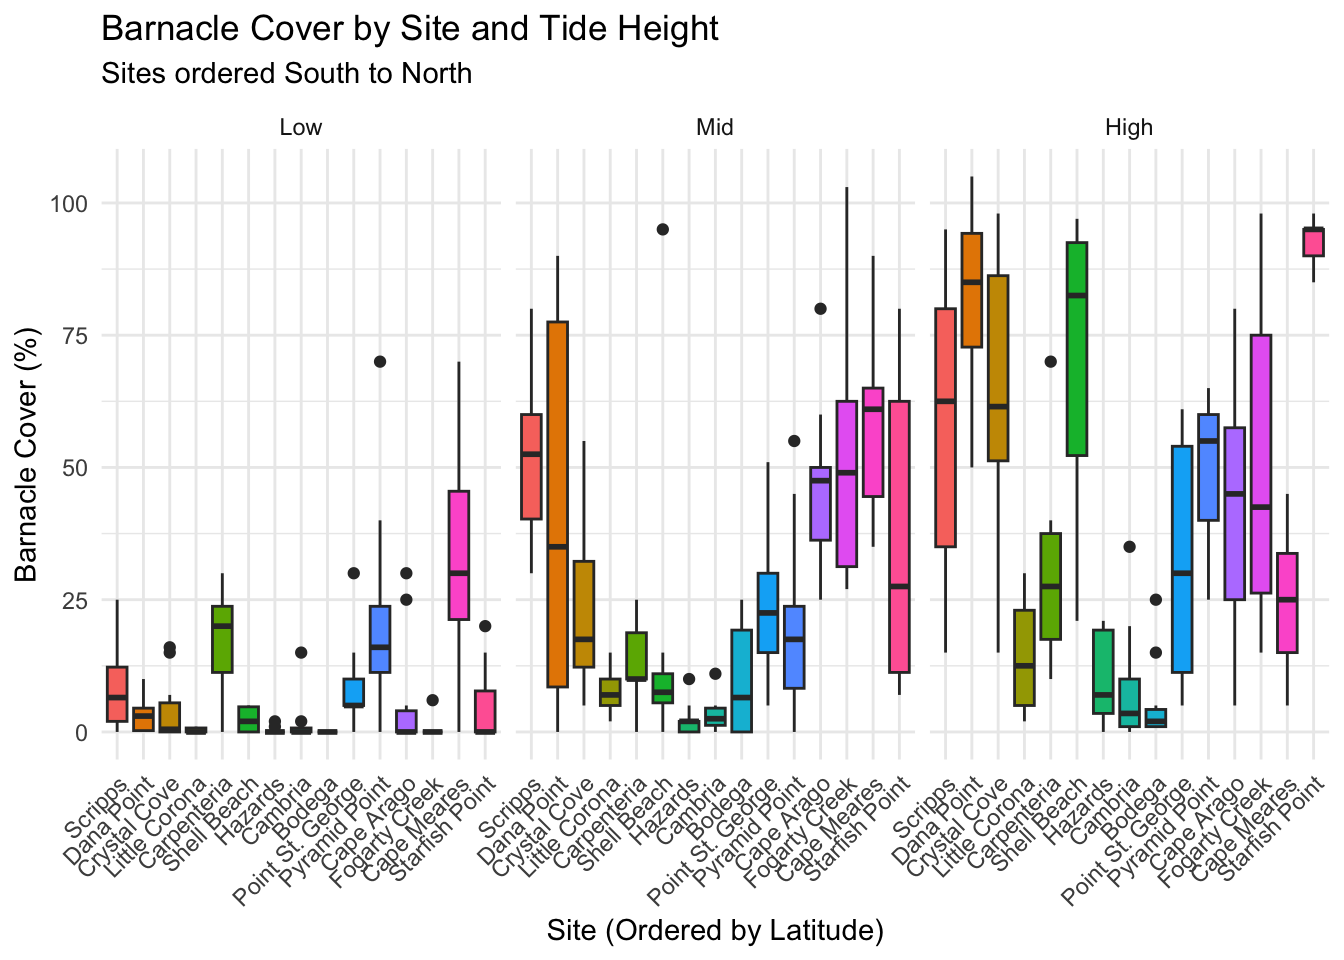
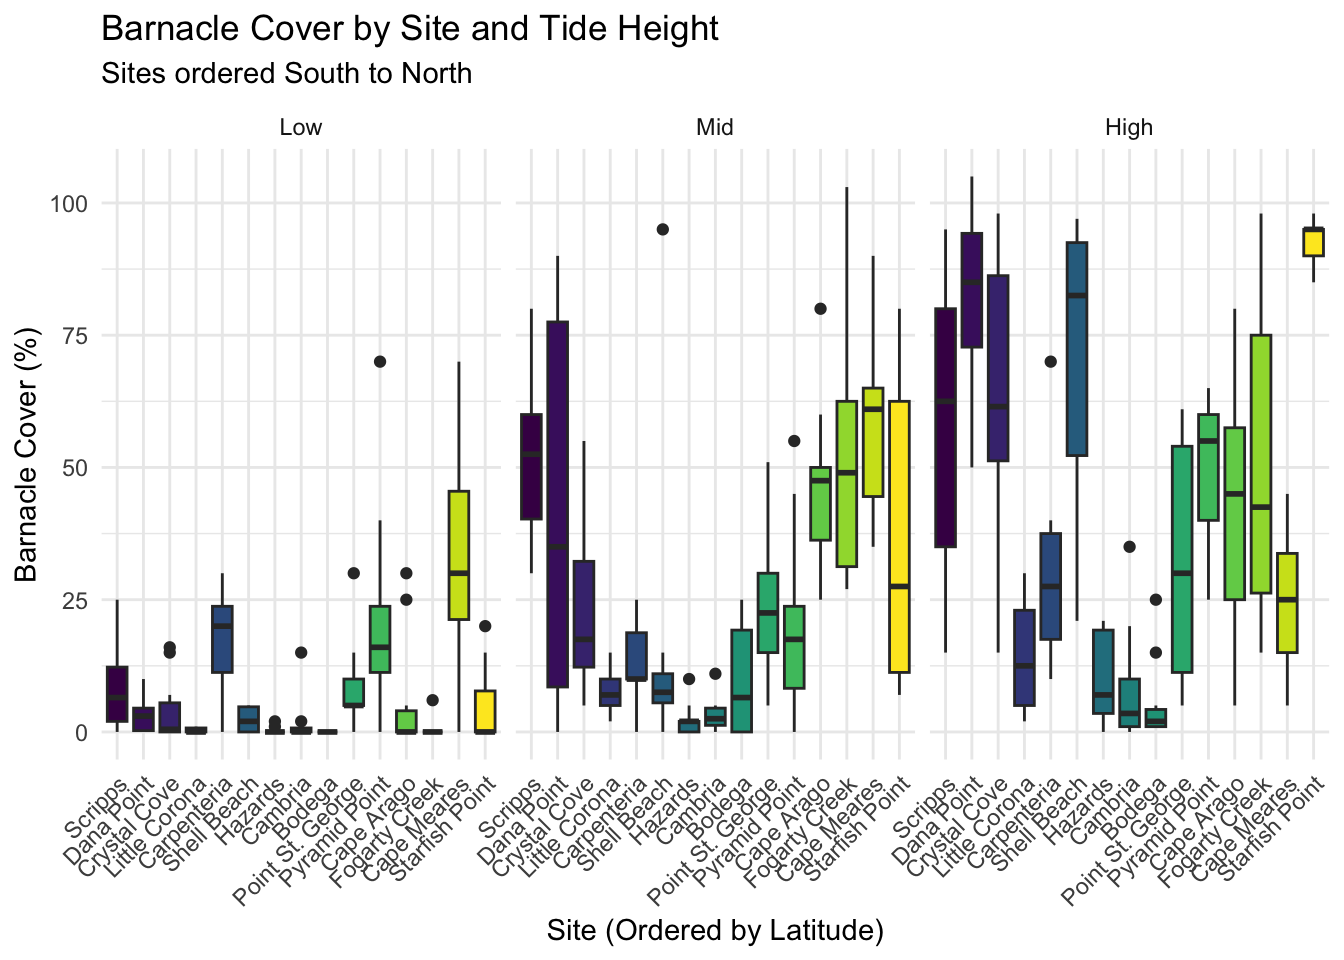
udpate week 9

diff --git a/Week_09/Scripts/Week9HW.html b/Week_09/Scripts/Week9HW.html
@@ -107,11 +107,12 @@ pre > code.sourceCode > span > a:first-child::before { text-decoration: underlin
 
 <section id="setup" class="level2">
 <h2 class="anchored" data-anchor-id="setup">Setup</h2>
-<p>Let’s setup. Loading the usual suspects. - <code>tidyverse</code>: Because we’re not monsters writing base R. - <code>janitor</code>: To fix whatever column names we were given. - <code>here</code>: So R doesn’t yell at me about file paths.</p>
+<p>Let’s setup. Loading the usual suspects. - <code>tidyverse</code>: Because we’re not monsters writing base R. - <code>janitor</code>: To fix whatever column names we were given. - <code>here</code>: So R doesn’t yell at me about file paths. - <code>viridis</code>: For better colors.</p>
 <div class="cell">
 <div class="sourceCode cell-code" id="cb1"><pre class="sourceCode r code-with-copy"><code class="sourceCode r"><span id="cb1-1"><a href="#cb1-1" aria-hidden="true" tabindex="-1"></a><span class="fu">library</span>(tidyverse)</span>
 <span id="cb1-2"><a href="#cb1-2" aria-hidden="true" tabindex="-1"></a><span class="fu">library</span>(janitor)</span>
-<span id="cb1-3"><a href="#cb1-3" aria-hidden="true" tabindex="-1"></a><span class="fu">library</span>(here)</span></code><button title="Copy to Clipboard" class="code-copy-button"><i class="bi"></i></button></pre></div>
+<span id="cb1-3"><a href="#cb1-3" aria-hidden="true" tabindex="-1"></a><span class="fu">library</span>(here)</span>
+<span id="cb1-4"><a href="#cb1-4" aria-hidden="true" tabindex="-1"></a><span class="fu">library</span>(viridis) <span class="co"># For the better color palette</span></span></code><button title="Copy to Clipboard" class="code-copy-button"><i class="bi"></i></button></pre></div>
 </div>
 </section>
 <section id="load-data" class="level2">
@@ -195,19 +196,20 @@ dbl (1): Latitude
 <div class="cell">
 <div class="sourceCode cell-code" id="cb7"><pre class="sourceCode r code-with-copy"><code class="sourceCode r"><span id="cb7-1"><a href="#cb7-1" aria-hidden="true" tabindex="-1"></a><span class="co"># Make the plot.</span></span>
 <span id="cb7-2"><a href="#cb7-2" aria-hidden="true" tabindex="-1"></a>intertidal_plot <span class="ot">&lt;-</span> <span class="fu">ggplot</span>(cleaned_data, <span class="fu">aes</span>(<span class="at">x =</span> site, <span class="at">y =</span> barnacle_cover_percent)) <span class="sc">+</span></span>
-<span id="cb7-3"><a href="#cb7-3" aria-hidden="true" tabindex="-1"></a>  <span class="fu">geom_boxplot</span>(<span class="fu">aes</span>(<span class="at">fill =</span> site), <span class="at">show.legend =</span> <span class="cn">FALSE</span>) <span class="sc">+</span></span>
+<span id="cb7-3"><a href="#cb7-3" aria-hidden="true" tabindex="-1"></a>  <span class="fu">geom_boxplot</span>(<span class="fu">aes</span>(<span class="at">fill =</span> site), <span class="at">show.legend =</span> <span class="cn">FALSE</span>) <span class="sc">+</span> <span class="co"># THIS is where show.legend goes</span></span>
 <span id="cb7-4"><a href="#cb7-4" aria-hidden="true" tabindex="-1"></a>  <span class="fu">facet_wrap</span>(<span class="sc">~</span> tide_height) <span class="sc">+</span> <span class="co"># Split by tide height</span></span>
-<span id="cb7-5"><a href="#cb7-5" aria-hidden="true" tabindex="-1"></a>  <span class="fu">labs</span>(</span>
-<span id="cb7-6"><a href="#cb7-6" aria-hidden="true" tabindex="-1"></a>    <span class="at">title =</span> <span class="st">"Barnacle Cover by Site and Tide Height"</span>,</span>
-<span id="cb7-7"><a href="#cb7-7" aria-hidden="true" tabindex="-1"></a>    <span class="at">subtitle =</span> <span class="st">"Sites ordered South to North"</span>,</span>
-<span id="cb7-8"><a href="#cb7-8" aria-hidden="true" tabindex="-1"></a>    <span class="at">x =</span> <span class="st">"Site (Ordered by Latitude)"</span>,</span>
-<span id="cb7-9"><a href="#cb7-9" aria-hidden="true" tabindex="-1"></a>    <span class="at">y =</span> <span class="st">"Barnacle Cover (%)"</span></span>
-<span id="cb7-10"><a href="#cb7-10" aria-hidden="true" tabindex="-1"></a>  ) <span class="sc">+</span></span>
-<span id="cb7-11"><a href="#cb7-11" aria-hidden="true" tabindex="-1"></a>  <span class="fu">theme_minimal</span>() <span class="sc">+</span></span>
-<span id="cb7-12"><a href="#cb7-12" aria-hidden="true" tabindex="-1"></a>  <span class="fu">theme</span>(<span class="at">axis.text.x =</span> <span class="fu">element_text</span>(<span class="at">angle =</span> <span class="dv">45</span>, <span class="at">hjust =</span> <span class="dv">1</span>)) <span class="co"># Angle x-axis text so it's not a total mess</span></span>
-<span id="cb7-13"><a href="#cb7-13" aria-hidden="true" tabindex="-1"></a></span>
-<span id="cb7-14"><a href="#cb7-14" aria-hidden="true" tabindex="-1"></a><span class="co"># Show me the plot.</span></span>
-<span id="cb7-15"><a href="#cb7-15" aria-hidden="true" tabindex="-1"></a>intertidal_plot</span></code><button title="Copy to Clipboard" class="code-copy-button"><i class="bi"></i></button></pre></div>
+<span id="cb7-5"><a href="#cb7-5" aria-hidden="true" tabindex="-1"></a>  <span class="fu">scale_fill_viridis_d</span>() <span class="sc">+</span> <span class="co"># No argument needed here</span></span>
+<span id="cb7-6"><a href="#cb7-6" aria-hidden="true" tabindex="-1"></a>  <span class="fu">labs</span>(</span>
+<span id="cb7-7"><a href="#cb7-7" aria-hidden="true" tabindex="-1"></a>    <span class="at">title =</span> <span class="st">"Barnacle Cover by Site and Tide Height"</span>,</span>
+<span id="cb7-8"><a href="#cb7-8" aria-hidden="true" tabindex="-1"></a>    <span class="at">subtitle =</span> <span class="st">"Sites ordered South to North"</span>,</span>
+<span id="cb7-9"><a href="#cb7-9" aria-hidden="true" tabindex="-1"></a>    <span class="at">x =</span> <span class="st">"Site (Ordered by Latitude)"</span>,</span>
+<span id="cb7-10"><a href="#cb7-10" aria-hidden="true" tabindex="-1"></a>    <span class="at">y =</span> <span class="st">"Barnacle Cover (%)"</span></span>
+<span id="cb7-11"><a href="#cb7-11" aria-hidden="true" tabindex="-1"></a>  ) <span class="sc">+</span></span>
+<span id="cb7-12"><a href="#cb7-12" aria-hidden="true" tabindex="-1"></a>  <span class="fu">theme_minimal</span>() <span class="sc">+</span></span>
+<span id="cb7-13"><a href="#cb7-13" aria-hidden="true" tabindex="-1"></a>  <span class="fu">theme</span>(<span class="at">axis.text.x =</span> <span class="fu">element_text</span>(<span class="at">angle =</span> <span class="dv">45</span>, <span class="at">hjust =</span> <span class="dv">1</span>)) <span class="co"># Angle x-axis text so it's not a total mess</span></span>
+<span id="cb7-14"><a href="#cb7-14" aria-hidden="true" tabindex="-1"></a></span>
+<span id="cb7-15"><a href="#cb7-15" aria-hidden="true" tabindex="-1"></a><span class="co"># Show me the plot.</span></span>
+<span id="cb7-16"><a href="#cb7-16" aria-hidden="true" tabindex="-1"></a>intertidal_plot</span></code><button title="Copy to Clipboard" class="code-copy-button"><i class="bi"></i></button></pre></div>
 <div class="cell-output-display">
 <div>
 <figure class="figure">
@@ -227,8 +229,7 @@ dbl (1): Latitude
 <span id="cb8-4"><a href="#cb8-4" aria-hidden="true" tabindex="-1"></a>  <span class="at">plot =</span> intertidal_plot,</span>
 <span id="cb8-5"><a href="#cb8-5" aria-hidden="true" tabindex="-1"></a>  <span class="at">width =</span> <span class="dv">8</span>,</span>
 <span id="cb8-6"><a href="#cb8-6" aria-hidden="true" tabindex="-1"></a>  <span class="at">height =</span> <span class="dv">6</span>,</span>
-<span id="cb8-7"><a href="#cb8-7" aria-hidden="true" tabindex="-1"></a>  <span class="at">dpi =</span> <span class="dv">300</span></span>
-<span id="cb8-8"><a href="#cb8-8" aria-hidden="true" tabindex="-1"></a>)</span></code><button title="Copy to Clipboard" class="code-copy-button"><i class="bi"></i></button></pre></div>
+<span id="cb8-7"><a href="#cb8-7" aria-hidden="true" tabindex="-1"></a>  <span class="at">dpi =</span> <span class="dv">300</span>)</span></code><button title="Copy to Clipboard" class="code-copy-button"><i class="bi"></i></button></pre></div>
 </div>
 </section>
 
